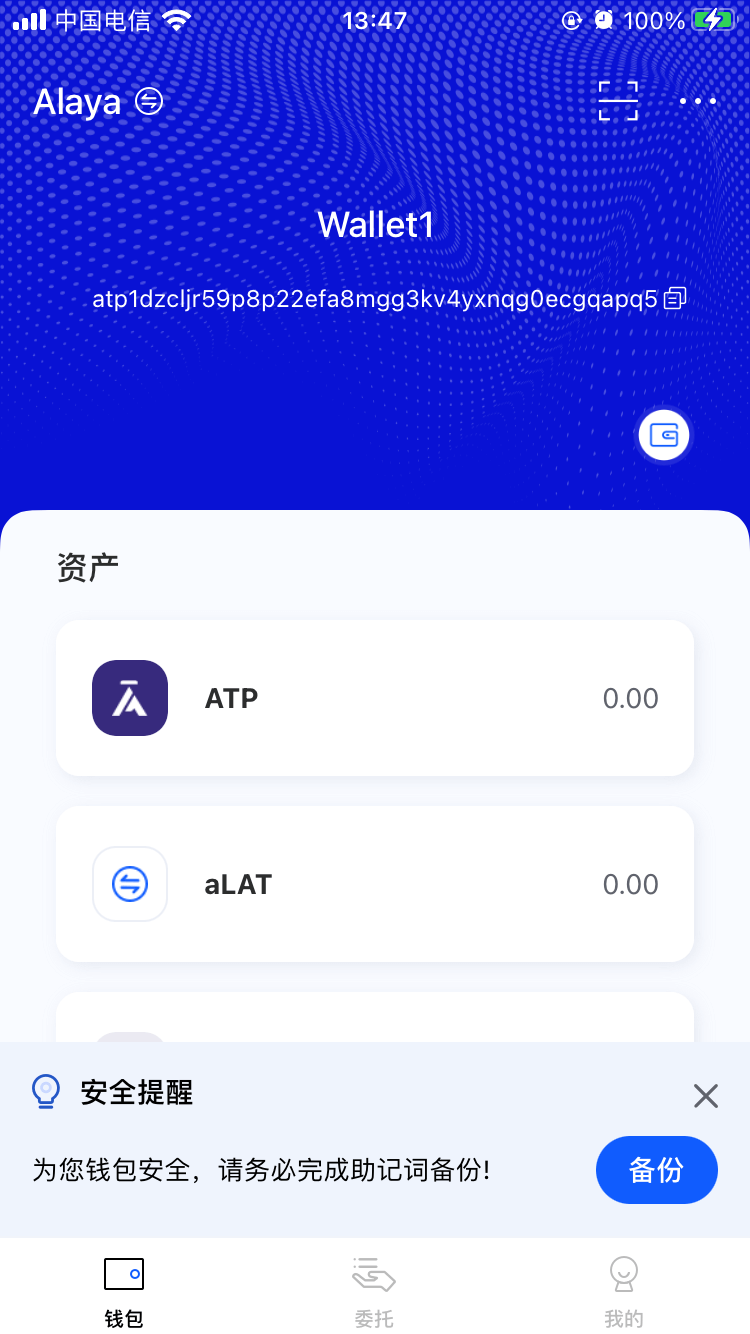
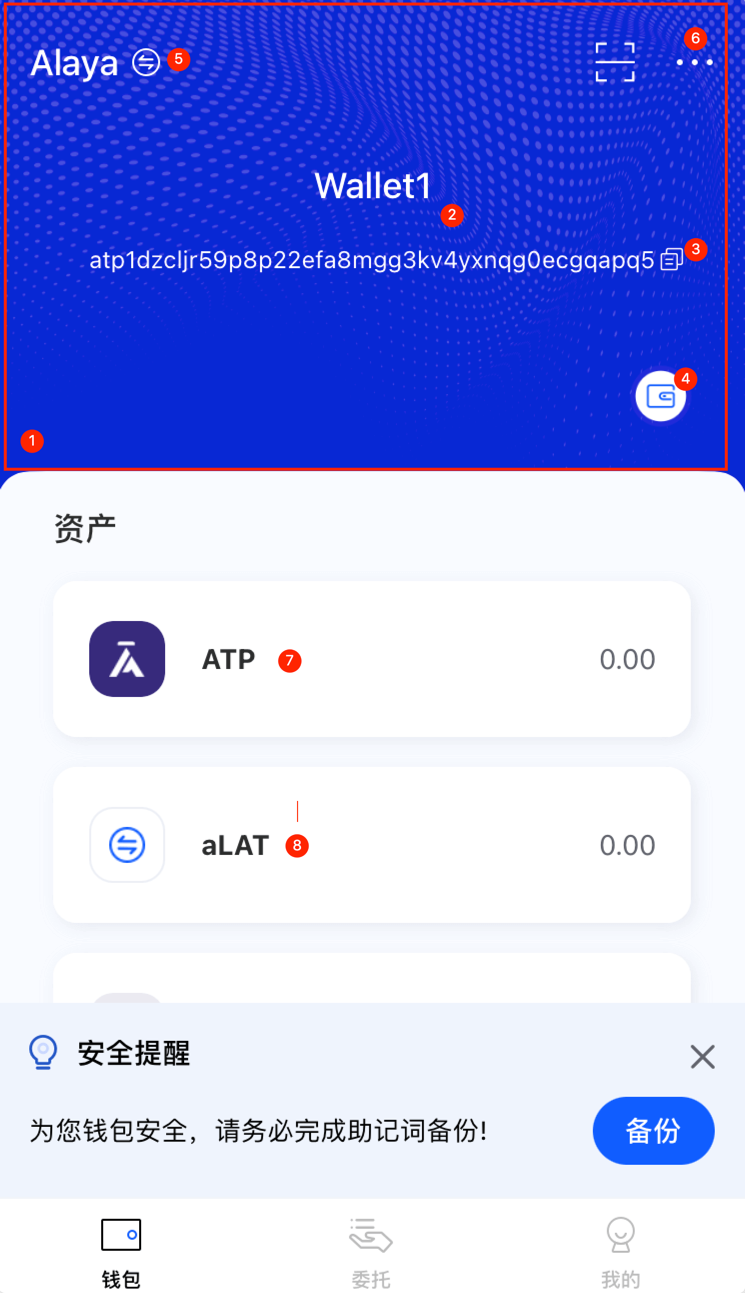
ATON Documents for Chinese updated

diff --git a/website/translated_docs/zh-CN/ATON-user-manual.md b/website/translated_docs/zh-CN/ATON-user-manual.md
@@ -22,7 +22,7 @@ title: ATON钱包用户使用手册
 ## 钱包资产主页
 
 <div>
-<div style="float:left;"><img src="/alaya-devdocs/img/zh-CN/ATON-manual-cn.assets/aton100.png" width="300" style="zoom:80%;"  /></div> <div><br>1. 在存在钱包的情况下，钱包资产主页会显示一个有效的钱包及其资产信息。<br>2. ①顶部部分是当前钱包简要信息。<br>3. ②钱包简要信息包含钱包名和钱包地址。<br>4. ③点击【复制】按钮可以复制当前钱包的地址。<br>5. ④点击【钱包管理】可以对钱包进行管理。<br>6. ⑤顶部左上角显示当前钱包所在节点信息，点击可以切换节点。<br>7. ⑥展示当前账户地址及地址二维码，可供转入ATP。<br>8. ⑦点击【...】可创建、导入和选择钱包，点击扫一扫可扫描二维码。<br>9. 页面下半部分是【资产列表】。<br>10. ⑧第一条是主币数据，可以看到单位和余额，点击可以进入主币详情页面。<br>12. ⑨其余是Token币数据，可以看到单位和余额，点击可以进入主币详情页面。
+<div style="float:left;"><img src="/alaya-devdocs/img/zh-CN/ATON-manual-cn.assets/aton100.png" width="300" style="zoom:80%;"  /></div> <div><br>1. 在存在钱包的情况下，钱包资产主页会显示一个有效的钱包及其资产信息。<br>2. ①顶部部分是当前钱包简要信息。<br>3. ②钱包简要信息包含钱包名和钱包地址。<br>4. ③点击【复制】按钮可以复制当前钱包的地址。<br>5. ④点击【钱包管理】可以对钱包进行管理。<br>6. ⑤顶部左上角显示当前钱包所在节点信息，点击可以切换节点。<br>7. ⑥点击【...】可创建、导入和选择钱包，点击扫一扫可扫描二维码。<br>8. 页面下半部分是【资产列表】。<br>9. ⑦第一条是主币数据，可以看到单位和余额，点击可以进入主币详情页面。<br>12. ⑧其余是Token币数据，可以看到单位和余额，点击可以进入主币详情页面。
 
 
 </div>
@@ -33,7 +33,7 @@ title: ATON钱包用户使用手册
 ## 资产详情页
 
 <div>
-<div style="float:left;"><img src="/alaya-devdocs/img/zh-CN/ATON-manual-cn.assets/aton101.png" width="300" style="zoom:80%;"  /></div> <div><br>1. 在资产管理页点击第一条数据，进入主币资产详情页，点击其余数据进入Token币资产详情页。<br>2. ①顶部部分是当前钱包信息。<br>3. ②钱包信息包含余额、单位和锁仓余额，以及【发送】和【接收】等必显信息。<br>4. ③点击【发送】按钮可以跳转到发送页面进行转账。<br>5. ④点击【接收】可以进入接收页面进行接收转账。<br>6. 页面下半部分是【交易记录】。<br>7. ⑤在Token币资产详情中没有【发送】按钮和【锁仓余额】文字标签。<br>8. ⑥页面下半部分是交易记录，点击单条交易记录可以进入交易记录详情页面。
+<div style="float:left;"><img src="/alaya-devdocs/img/zh-CN/ATON-manual-cn.assets/aton101.png" width="300" style="zoom:80%;"  /></div> <div><br>1. 在资产管理页点击第一条数据，进入主币资产详情页，点击其余数据进入Token币资产详情页。<br>2. 顶部部分是当前钱包信息。<br>3. 钱包信息包含余额、单位和锁仓余额，以及【发送】和【接收】等必显信息。<br>4. 点击【发送】按钮可以跳转到发送页面进行转账。<br>5. 点击【接收】可以进入接收页面进行接收转账。<br>6. 页面下半部分是【交易记录】。<br>7. 在Token币资产详情中没有【发送】按钮和【锁仓余额】文字标签。<br>8. 页面下半部分是交易记录，点击单条交易记录可以进入交易记录详情页面。
 
 </div>
 <div style="clear:both"></div>
@@ -84,15 +84,6 @@ title: ATON钱包用户使用手册
 
 <div style="clear:both"></div>
 <div style="margin-top:40px;"></div>
-
-## 查看钱包信息
-
-<div>
-<div style="float:left;"><img src="/alaya-devdocs/img/zh-CN/ATON-manual-cn.assets/aton12.png" width="300" style="zoom:80%;"  /></div> <div><br>1. 点击【钱包】模块，可以看到所有钱包。<br>2. ①显示所有钱包的ATP总和。<br>3. ②点击不同钱包可切换钱包。<br>4. ③点击可选择该组HD钱包的任意一个子钱包。<br>5. ④当前显示钱包的ATP余额，如果有锁仓余额，在余额下方会显示锁仓金额。<br>6. ⑤显示当前钱包的所有交易记录。<br>7. ⑥可转账ATP至其他账户。<br>8. ⑦展示当前账户地址及地址二维码，可供转入ATP。<br>9. ⑧点击【...】可创建、导入和选择钱包，点击扫一扫可扫描二维码。<br>10. ⑨点击查看钱包详情。
-</div>
-<div style="clear:both"></div>
-<div style="margin-top:40px;"></div>
-</div>
 
 ## 选择钱包
 
